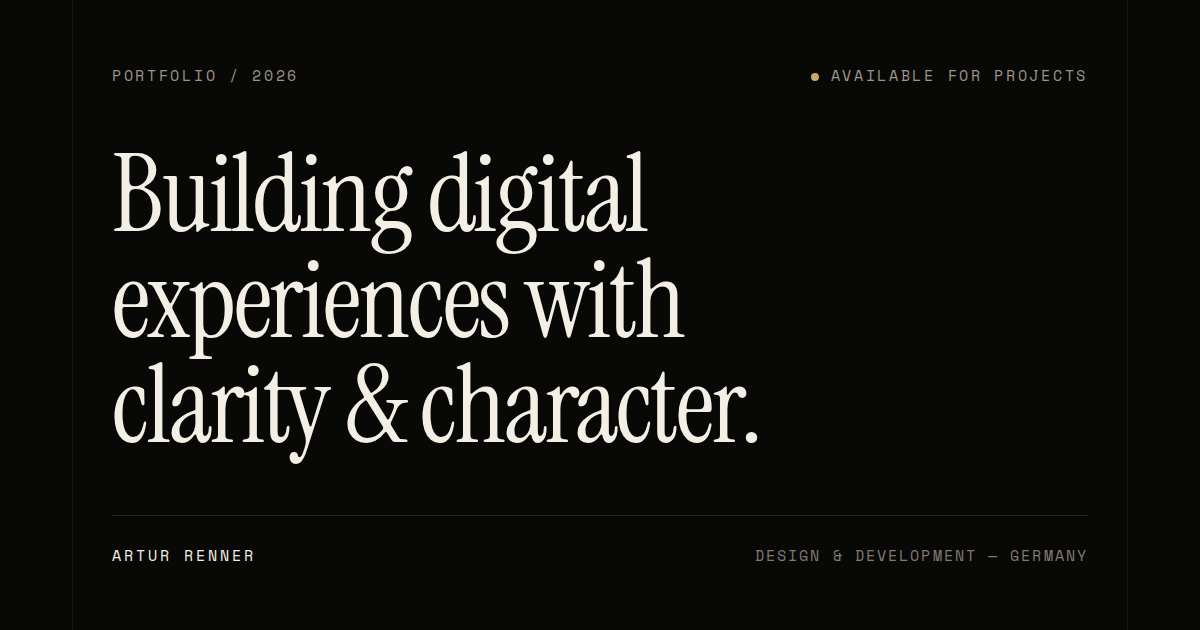
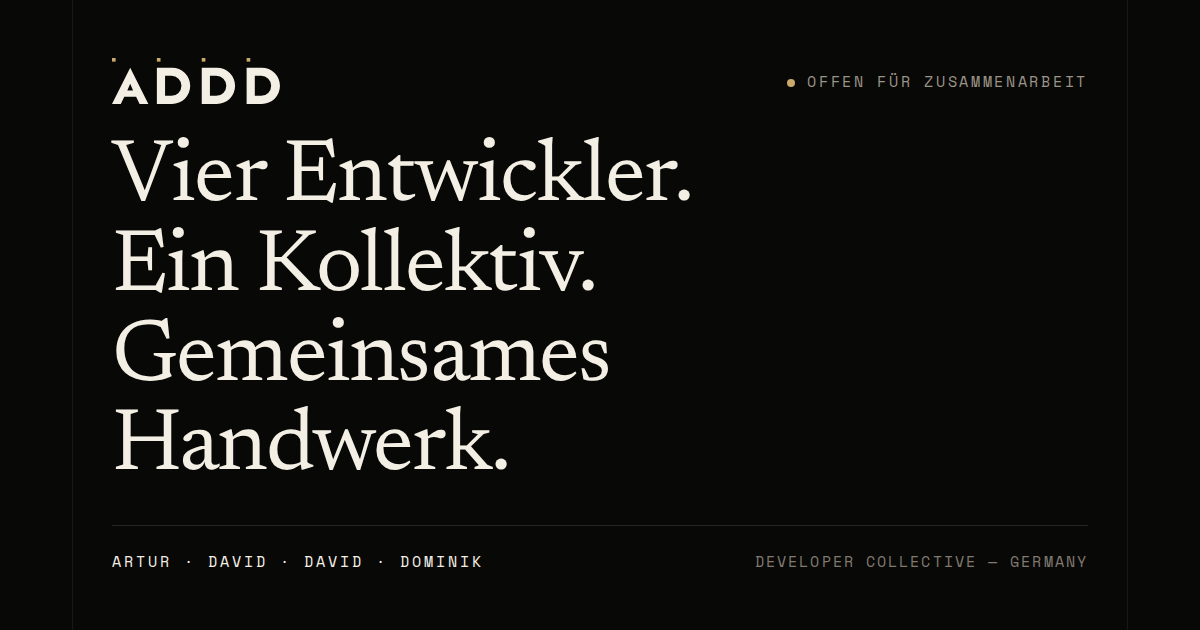
GitHub Pages Deployment3

diff --git a/src/components/Wordmark.tsx b/src/components/Wordmark.tsx
@@ -1,0 +1,31 @@
+/**
+ * ADDD-Wortmarke als Inline-SVG.
+ *
+ * Bewusst keine Bilddatei: nur inline erbt die Marke die Textfarbe
+ * (currentColor) und reagiert damit auf Hover und Fokus. Die vier Marken
+ * oben stehen fuer die vier im Kollektiv.
+ */
+export function Wordmark({ className }: { className?: string }) {
+  return (
+    <svg
+      className={className}
+      viewBox="0 0 141 38"
+      role="img"
+      aria-label="ADDD"
+      focusable="false"
+    >
+      <g fill="var(--c-accent)">
+        <rect x="0" y="0" width="3" height="3" />
+        <rect x="37" y="0" width="3" height="3" />
+        <rect x="74" y="0" width="3" height="3" />
+        <rect x="111" y="0" width="3" height="3" />
+      </g>
+      <g fill="currentColor">
+      <path fillRule="evenodd" d="M15.0 8 L30.0 38.0 L22.75 38.0 L19.875 32.0 L10.125 32.0 L7.25 38.0 L0 38.0 Z M12.625 26.875 L17.375 26.875 L15.0 21.25 Z" />
+      <path fillRule="evenodd" d="M37 8 L49.5 8 A15.0 15.0 0 0 1 49.5 38.0 L37 38.0 Z M43.75 14.75 L43.75 31.25 L49.0 31.25 A8.25 8.25 0 0 0 49.0 14.75 Z" />
+      <path fillRule="evenodd" d="M74 8 L86.5 8 A15.0 15.0 0 0 1 86.5 38.0 L74 38.0 Z M80.75 14.75 L80.75 31.25 L86.0 31.25 A8.25 8.25 0 0 0 86.0 14.75 Z" />
+      <path fillRule="evenodd" d="M111 8 L123.5 8 A15.0 15.0 0 0 1 123.5 38.0 L111 38.0 Z M117.75 14.75 L117.75 31.25 L123.0 31.25 A8.25 8.25 0 0 0 123.0 14.75 Z" />
+      </g>
+    </svg>
+  )
+}

diff --git a/src/components/Navigation.tsx b/src/components/Navigation.tsx
@@ -5,6 +5,7 @@ import { useScrolled } from '../hooks/useScrolled'
 import { useActiveSection } from '../hooks/useActiveSection'
 import { LanguageSwitcher } from './LanguageSwitcher'
 import { StatusDot } from './StatusDot'
+import { Wordmark } from './Wordmark'
 import styles from './Navigation.module.css'
 
 const SECTION_IDS = navItems.map((item) => item.id)
@@ -38,7 +39,7 @@ export function Navigation() {
       <header className={styles.nav} data-scrolled={scrolled} data-open={menuOpen}>
         <div className={`shell ${styles.inner}`}>
           <a className={styles.brand} href="#top" aria-label={site.name}>
-            <img className={styles.logo} src="./logo-addd-mark.svg" alt="" aria-hidden="true" />
+            <Wordmark className={styles.logo} />
             <span className={styles.brandName}>{site.name}</span>
             <span className={styles.brandMark} aria-hidden="true">
               {site.initials}

diff --git a/src/components/Navigation.module.css b/src/components/Navigation.module.css
@@ -57,8 +57,12 @@
   display: block;
   width: 4.6rem;
   height: auto;
-  opacity: 0.94;
-  image-rendering: auto;
+  color: var(--c-text);
+  transition: color var(--dur-fast) var(--ease);
+}
+
+.brand:hover .logo {
+  color: var(--c-accent);
 }
 
 .brandMark {
